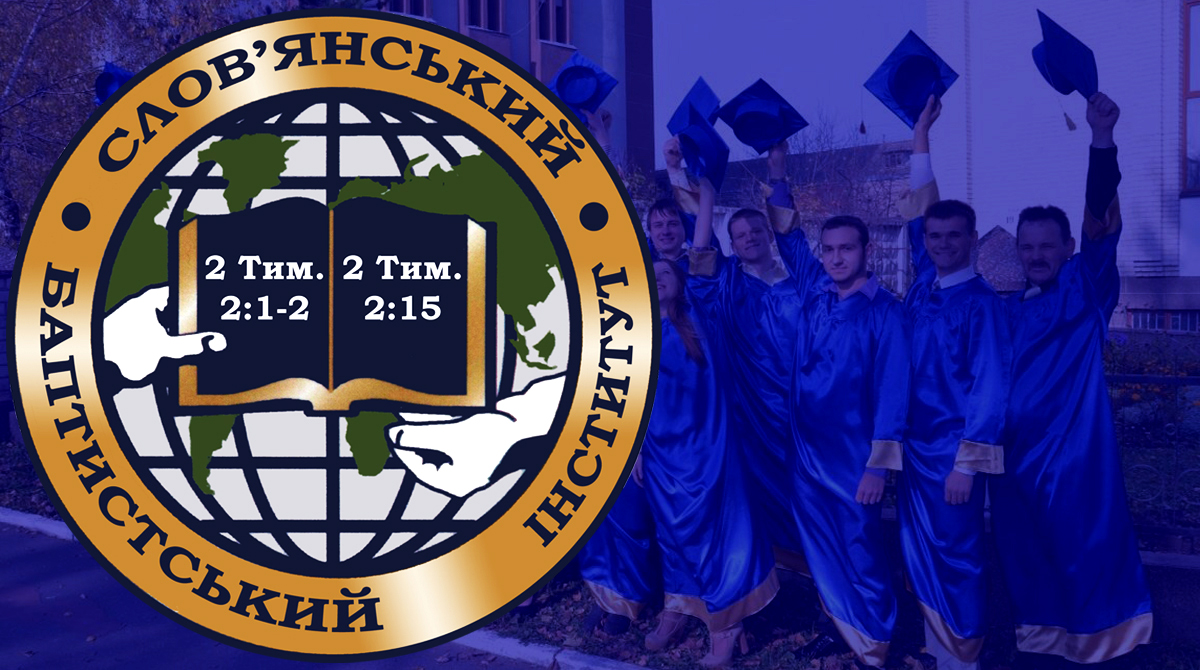
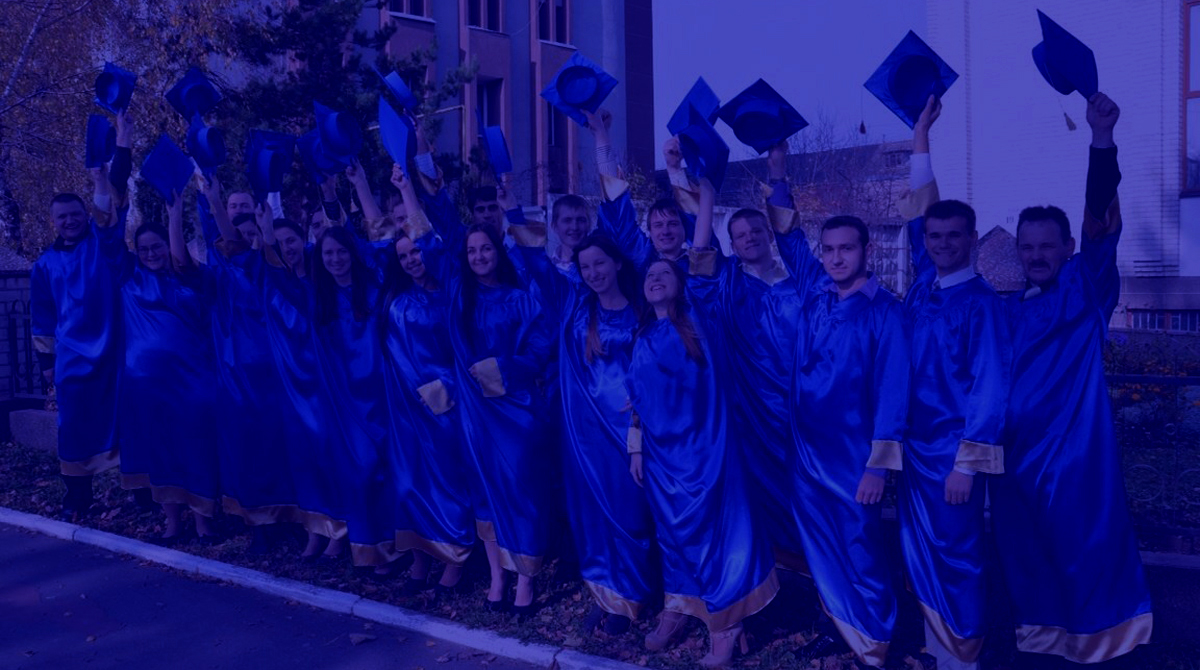
123

diff --git a/src/header/Header.module.css b/src/header/Header.module.css
@@ -1,8 +1,9 @@
 .header-page {
+  display: flex;
   width: 1200px;
   height: 670px;
   margin: auto;
-  padding: 30px 45px 30px 0;
+  padding: 8px 45px 8px 8px;
 
   background-color: #212063;
   background-image: url(src/images/Background-image.jpg);
@@ -34,4 +35,6 @@
   align-items: flex-end;
 
   min-height: 100%;
+  padding-bottom: 42px;
+  padding-top: 18px;
 }

diff --git a/src/header/Header.jsx b/src/header/Header.jsx
@@ -6,6 +6,7 @@ const Header = () => {
   return (
     <>
       <header className={css["header-page"]}>
+        <img src="src/images/logo.png" alt="logo" />
         <div className={css["title-options"]}>
           <h1 className={css.title}>{"Слов'янський Баптистський Інститут"}</h1>
           <div>
